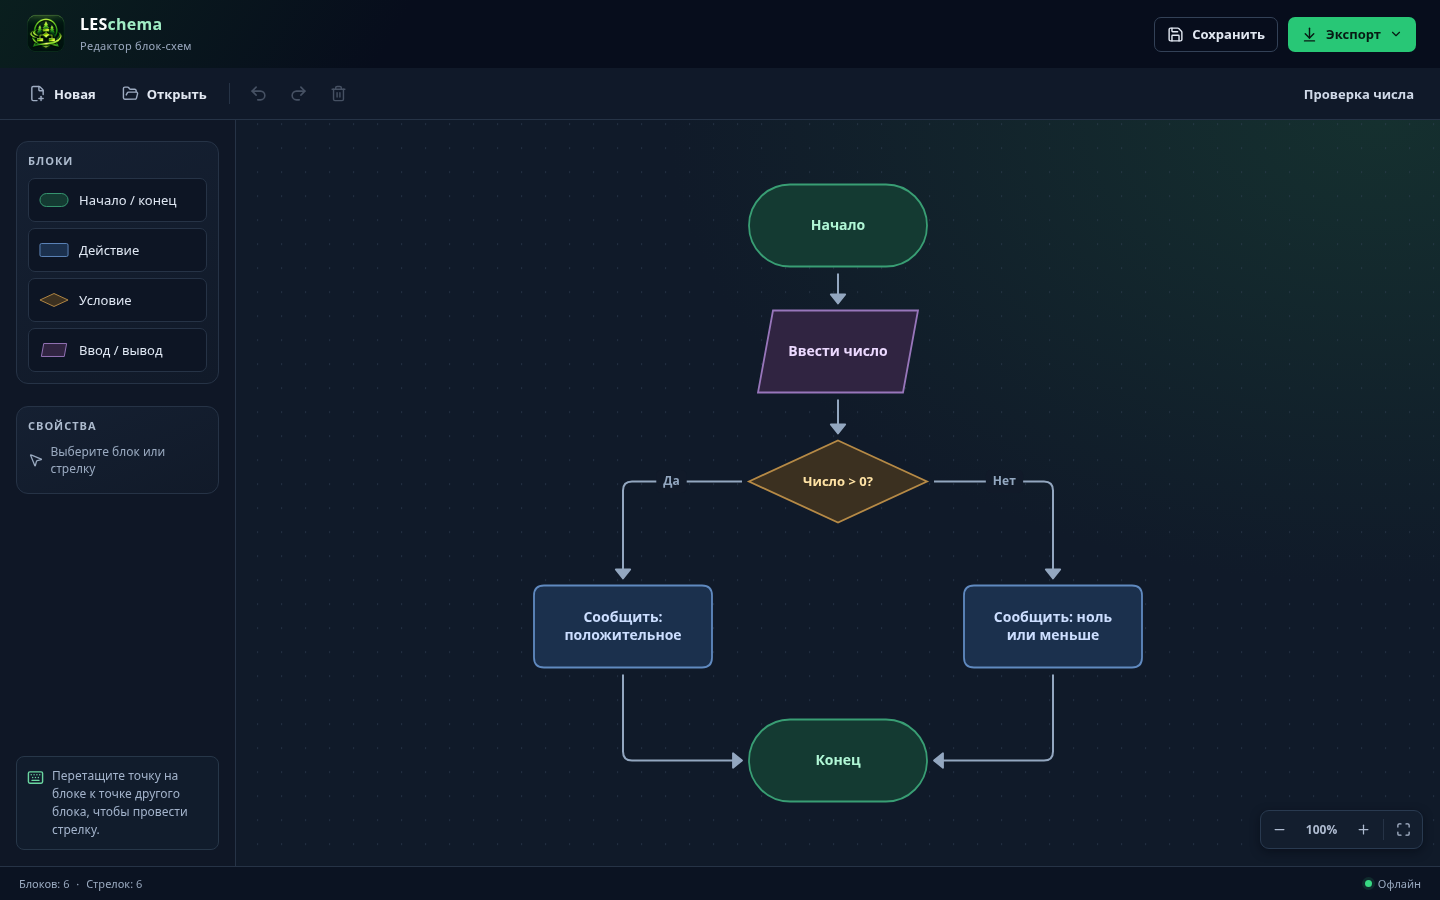
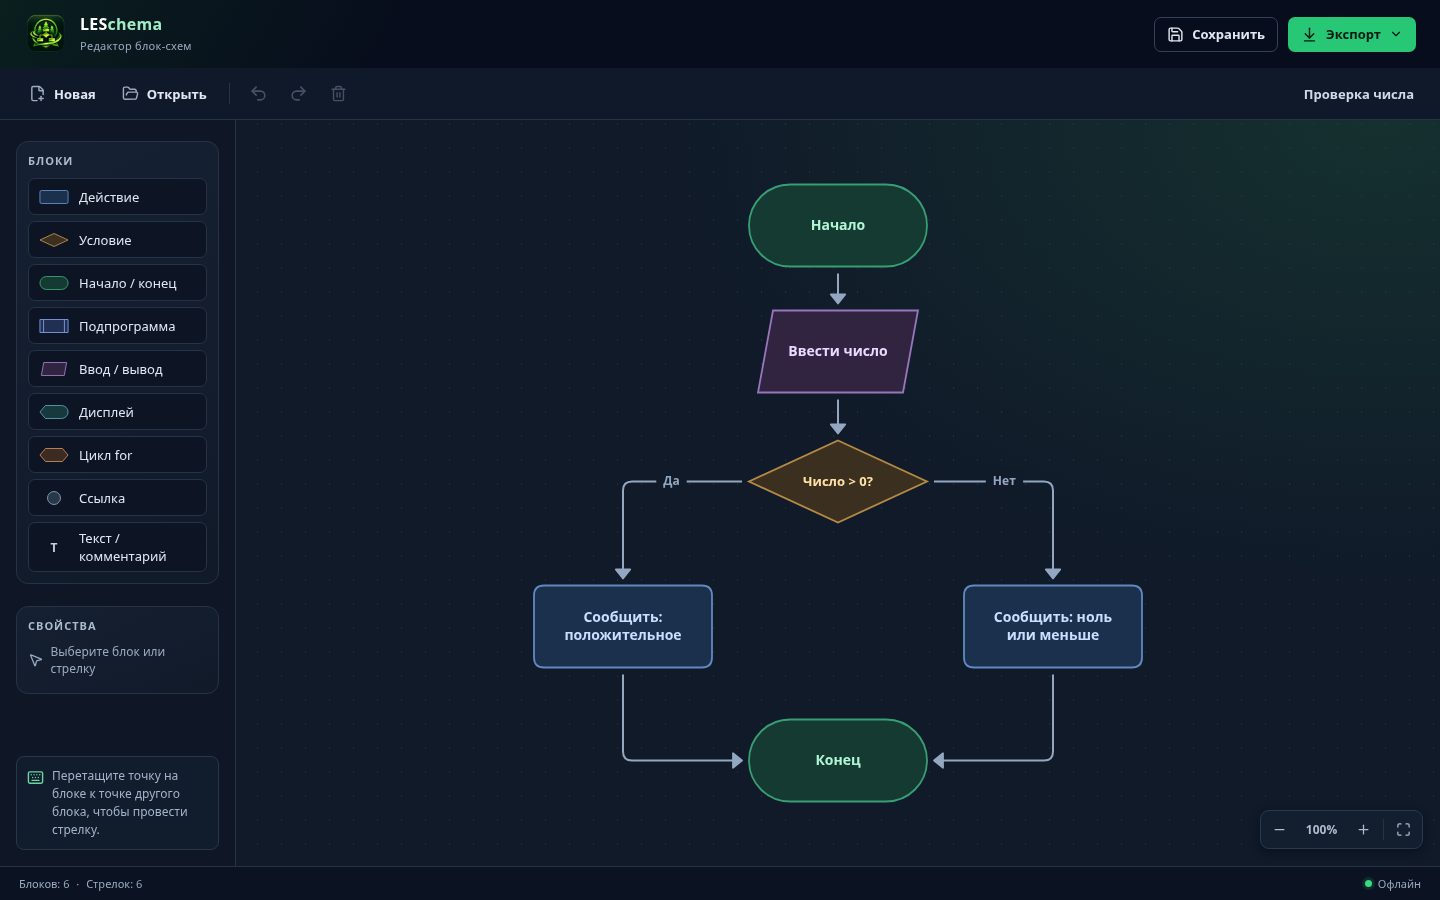
Add five flowchart elements for v1.0.1

Changed region(s): [[0.0312, 0.1867, 0.125, 0.56], [0.0312, 0.6844, 0.0938, 0.7467], [0.0625, 0.5911, 0.125, 0.6222]]

diff --git a/web/src/diagram.ts b/web/src/diagram.ts
@@ -2,10 +2,15 @@ import { getSmoothStepPath, MarkerType, Position } from '@xyflow/react';
 import type { Edge, Node, XYPosition } from '@xyflow/react';
 
 export const shapes = {
-  terminal: { name: 'Начало / конец', text: 'Начало', color: '#106c53', fill: '#e5f8ef', stroke: '#70b49b', canvas: { color: '#b1f7d6', fill: '#143a32', stroke: '#399e74' } },
   process: { name: 'Действие', text: 'Действие', color: '#244a9c', fill: '#ebf1ff', stroke: '#8da7e8', canvas: { color: '#ccdeff', fill: '#1b304d', stroke: '#608ac0' } },
   decision: { name: 'Условие', text: 'Условие?', color: '#845213', fill: '#fff5de', stroke: '#d5a44c', canvas: { color: '#ffe3a5', fill: '#3b3020', stroke: '#b68a46' } },
+  terminal: { name: 'Начало / конец', text: 'Начало', color: '#106c53', fill: '#e5f8ef', stroke: '#70b49b', canvas: { color: '#b1f7d6', fill: '#143a32', stroke: '#399e74' } },
+  subroutine: { name: 'Подпрограмма', text: 'Подпрограмма', color: '#29488e', fill: '#eef2ff', stroke: '#7f97d3', canvas: { color: '#dbe5ff', fill: '#202f52', stroke: '#7a99db' } },
   input: { name: 'Ввод / вывод', text: 'Ввод данных', color: '#634199', fill: '#f4ecff', stroke: '#aa91d7', canvas: { color: '#ecd9ff', fill: '#302441', stroke: '#9876bb' } },
+  display: { name: 'Дисплей', text: 'Показать на экране', color: '#11616b', fill: '#e6f7f8', stroke: '#72adba', canvas: { color: '#b2edf1', fill: '#17383d', stroke: '#519cac' } },
+  loop: { name: 'Цикл for', text: 'Цикл for', color: '#884318', fill: '#fff0e5', stroke: '#d49b6a', canvas: { color: '#ffdab8', fill: '#3c2b21', stroke: '#bc895c' } },
+  link: { name: 'Ссылка', text: 'A', color: '#43546d', fill: '#edf3f8', stroke: '#8b9fb3', canvas: { color: '#dce8f6', fill: '#27384a', stroke: '#849caf' } },
+  comment: { name: 'Текст / комментарий', text: 'Комментарий', color: '#394b62', fill: 'none', stroke: 'none', canvas: { color: '#c1d0e3', fill: 'none', stroke: 'none' } },
 } as const;
 
 export type Shape = keyof typeof shapes;
@@ -34,13 +39,13 @@ const anchors: Record<Side, XYPosition> = {
   left: { x: 0, y: height / 2 },
 };
 
-export const inputInset = 17.5;
+const horizontalInsets: Partial<Record<Shape, number>> = { input: 17.5, link: 49 };
 
 export function anchor(kind: Shape, side: Side): XYPosition {
   const point = anchors[side];
-  if (kind !== 'input') return point;
-  if (side === 'left') return { x: inputInset, y: point.y };
-  if (side === 'right') return { x: width - inputInset, y: point.y };
+  const inset = horizontalInsets[kind] ?? 0;
+  if (side === 'left') return { x: inset, y: point.y };
+  if (side === 'right') return { x: width - inset, y: point.y };
   return point;
 }
 
@@ -48,8 +53,15 @@ export const contours: Record<Shape, string> = {
   terminal: 'M42 1H138A41 41 0 0 1 138 83H42A41 41 0 0 1 42 1Z',
   process: 'M11 1H169Q179 1 179 11V73Q179 83 169 83H11Q1 83 1 73V11Q1 1 11 1Z',
   decision: 'M90 1L179 42 90 83 1 42Z',
+  subroutine: 'M1 1H179V83H1Z',
   input: 'M25 1H170L155 83H10Z',
+  display: 'M35 1H138A41 41 0 0 1 138 83H35L1 42Z',
+  loop: 'M36 1H144L179 42 144 83H36L1 42Z',
+  link: 'M90 1A41 41 0 1 1 90 83A41 41 0 1 1 90 1Z',
+  comment: '',
 };
+
+export const subroutineDividers = 'M24 1V83M156 1V83';
 
 export function block(id: string, kind: Shape, text: string, x: number, y: number): Block {
   return { id, type: 'block', data: { kind, text }, position: { x, y }, initialWidth: width, initialHeight: height };
@@ -100,10 +112,7 @@ export function textWidth(text: string, size: number, weight: number) {
   return measure.measureText(text).width;
 }
 
-export function blockLines(kind: Shape, value: string) {
-  const size = kind === 'decision' ? 13 : 14;
-  const maxWidth = kind === 'decision' ? 92 : 136;
-  const maxLines = kind === 'decision' ? 2 : 3;
+function wrapLabel(value: string, size: number, maxWidth: number, maxLines: number) {
   const lines: string[] = [];
 
   for (const paragraph of value.split('\n')) {
@@ -133,6 +142,28 @@ export function blockLines(kind: Shape, value: string) {
   while (last.length && textWidth(last.join('') + '…', size, 600) > maxWidth) last.pop();
   visible[maxLines - 1] = last.join('') + '…';
   return visible;
+}
+
+const labelLayout: Partial<Record<Shape, { fontSize: number; maxWidth: number; maxLines: number }>> = {
+  decision: { fontSize: 13, maxWidth: 92, maxLines: 2 },
+  subroutine: { fontSize: 14, maxWidth: 118, maxLines: 3 },
+  display: { fontSize: 14, maxWidth: 118, maxLines: 3 },
+  loop: { fontSize: 14, maxWidth: 118, maxLines: 3 },
+  link: { fontSize: 14, maxWidth: 54, maxLines: 2 },
+  comment: { fontSize: 14, maxWidth: 164, maxLines: 4 },
+};
+
+export function blockLabel(kind: Shape, value: string) {
+  const { fontSize, maxWidth, maxLines } = labelLayout[kind] ?? { fontSize: 14, maxWidth: 136, maxLines: 3 };
+  const wrapped = wrapLabel(value, fontSize, maxWidth, maxLines);
+  const lineHeight = kind === 'decision' ? 16 : 18;
+  return {
+    fontSize,
+    lines: wrapped.map((text, index) => ({
+      text,
+      y: height / 2 + (index - (wrapped.length - 1) / 2) * lineHeight + 4.5,
+    })),
+  };
 }
 
 export const maxBlocks = 500;

diff --git a/web/src/graph.tsx b/web/src/graph.tsx
@@ -5,17 +5,28 @@ import {
 import type { EdgeProps, NodeProps } from '@xyflow/react';
 import { Maximize, Minus, Plus } from 'lucide-react';
 import {
-  blockLines, contours, canvasEdgeColor, height, inputInset, positions, route, shapes, sides, width,
+  anchor, blockLabel, contours, canvasEdgeColor, height, positions, route, shapes, sides, subroutineDividers, width,
 } from './diagram';
-import type { Arrow, Block, Shape } from './diagram';
+import type { Arrow, Block, Shape, Side } from './diagram';
 
 export function ShapePreview({ kind }: { kind: Shape }) {
   const style = shapes[kind].canvas;
   return (
     <svg width="30" height="20" viewBox="-5 -6 190 96" aria-hidden="true">
-      <path d={contours[kind]} fill={style.fill} stroke={style.stroke} strokeWidth="6" />
+      {kind === 'comment' ? (
+        <text x={width / 2} y="71" fill={style.color} textAnchor="middle" fontSize="76" fontWeight="600">T</text>
+      ) : (
+        <path d={contours[kind]} fill={style.fill} stroke={style.stroke} strokeWidth="6" />
+      )}
+      {kind === 'subroutine' && <path d={subroutineDividers} fill="none" stroke={style.stroke} strokeWidth="6" />}
     </svg>
   );
+}
+
+function handleStyle(kind: Shape, side: Side) {
+  if (side === 'left') return { left: anchor(kind, side).x };
+  if (side === 'right') return { right: width - anchor(kind, side).x };
+  return undefined;
 }
 
 export function BlockView({ data, id, selected }: NodeProps<Block>) {
@@ -28,25 +39,22 @@ export function BlockView({ data, id, selected }: NodeProps<Block>) {
     }
   }, [data.kind, id, updateNodeInternals]);
   const style = shapes[data.kind].canvas;
-  const lines = blockLines(data.kind, data.text);
-  const lineHeight = data.kind === 'decision' ? 16 : 18;
+  const contour = contours[data.kind];
+  const { lines, fontSize } = blockLabel(data.kind, data.text);
   return (
     <div className={`diagram-block${selected ? ' is-selected' : ''}`} style={{ width, height }} title={data.text}>
       <svg viewBox={`0 0 ${width} ${height}`} aria-hidden="true">
-        <path className="selected-outline" d={contours[data.kind]} fill="none" stroke="var(--accent)" strokeWidth="7" />
-        <path d={contours[data.kind]} fill={style.fill} stroke={style.stroke} strokeWidth="1.8" />
-        <g fill={style.color} textAnchor="middle" fontSize={data.kind === 'decision' ? 13 : 14} fontWeight="600">
-          {lines.map((line, index) => (
-            <text key={index} x={width / 2} y={height / 2 + (index - (lines.length - 1) / 2) * lineHeight + 4.5}>
-              {line}
-            </text>
-          ))}
+        <path className="selected-outline" d={contour || contours.process} fill="none" stroke="var(--accent)" strokeWidth="7" />
+        {contour && <path d={contour} fill={style.fill} stroke={style.stroke} strokeWidth="1.8" />}
+        {data.kind === 'subroutine' && <path d={subroutineDividers} fill="none" stroke={style.stroke} strokeWidth="1.8" />}
+        <g fill={style.color} textAnchor="middle" fontSize={fontSize} fontWeight="600">
+          {lines.map(({ text, y }, index) => <text key={index} x={width / 2} y={y}>{text}</text>)}
         </g>
       </svg>
       {sides.map(side => (
         <Handle
           key={side} id={side} type="source" position={positions[side]}
-          style={data.kind === 'input' && (side === 'left' || side === 'right') ? { [side]: inputInset } : undefined}
+          style={handleStyle(data.kind, side)}
           aria-label={`Точка соединения ${side}`}
         />
       ))}

diff --git a/web/src/export.ts b/web/src/export.ts
@@ -1,4 +1,4 @@
-import { anchor, blockLines, contours, edgeColor, height, positions, route, shapes, textWidth, typeface, width } from './diagram';
+import { anchor, blockLabel, contours, edgeColor, height, positions, route, shapes, subroutineDividers, textWidth, typeface, width } from './diagram';
 import type { Diagram, Side } from './diagram';
 
 export const imageFormats = {
@@ -61,12 +61,14 @@ function renderSvg(diagram: Diagram) {
 
   const blocks = diagram.nodes.map(({ position, data }) => {
     const style = shapes[data.kind];
-    const lines = blockLines(data.kind, data.text);
-    const lineHeight = data.kind === 'decision' ? 16 : 18;
-    const text = lines.map((line, index) =>
-      `<text x="${width / 2}" y="${height / 2 + (index - (lines.length - 1) / 2) * lineHeight + 4.5}">${escapeXml(line)}</text>`,
-    );
-    return `<g transform="translate(${position.x} ${position.y})"><path d="${contours[data.kind]}" fill="${style.fill}" stroke="${style.stroke}" stroke-width="1.8" /><g fill="${style.color}" font-size="${data.kind === 'decision' ? 13 : 14}">${text.join('')}</g></g>`;
+    const contour = contours[data.kind];
+    const outline = contour ? `<path d="${contour}" fill="${style.fill}" stroke="${style.stroke}" stroke-width="1.8" />` : '';
+    const dividers = data.kind === 'subroutine'
+      ? `<path d="${subroutineDividers}" fill="none" stroke="${style.stroke}" stroke-width="1.8" />`
+      : '';
+    const { lines, fontSize } = blockLabel(data.kind, data.text);
+    const text = lines.map(({ text, y }) => `<text x="${width / 2}" y="${y}">${escapeXml(text)}</text>`);
+    return `<g transform="translate(${position.x} ${position.y})">${outline}${dividers}<g fill="${style.color}" font-size="${fontSize}">${text.join('')}</g></g>`;
   });
 
   const imageWidth = Math.ceil(right - left);

diff --git a/web/src/style.css b/web/src/style.css
@@ -147,7 +147,7 @@ button:focus-visible, input:focus-visible, textarea:focus-visible, select:focus-
   align-items: center;
   gap: 10px;
   width: 100%;
-  min-height: 44px;
+  min-height: 37px;
   padding: 6px 10px;
   margin: 6px 0;
   border: 1px solid var(--border);

diff --git a/README.md b/README.md
@@ -31,7 +31,7 @@
 
 ## ✨ Возможности
 
-- **Фигуры** — начало и конец, действие, условие, ввод и вывод.
+- **Фигуры** — действие, условие, начало и конец, подпрограмма, ввод и вывод, дисплей, цикл `for` и круглая ссылка-соединитель. Текст и комментарии можно размещать прямо на поле.
 - **Редактор** — перемещение блоков, стрелки с подписями, масштабирование, отмена и повтор действий.
 - **Проекты** — сохранение схем в JSON и повторное открытие для редактирования.
 - **Экспорт** — вся схема в PNG, JPG, SVG или WebP. WebP требует поддержки кодирования в браузере.
